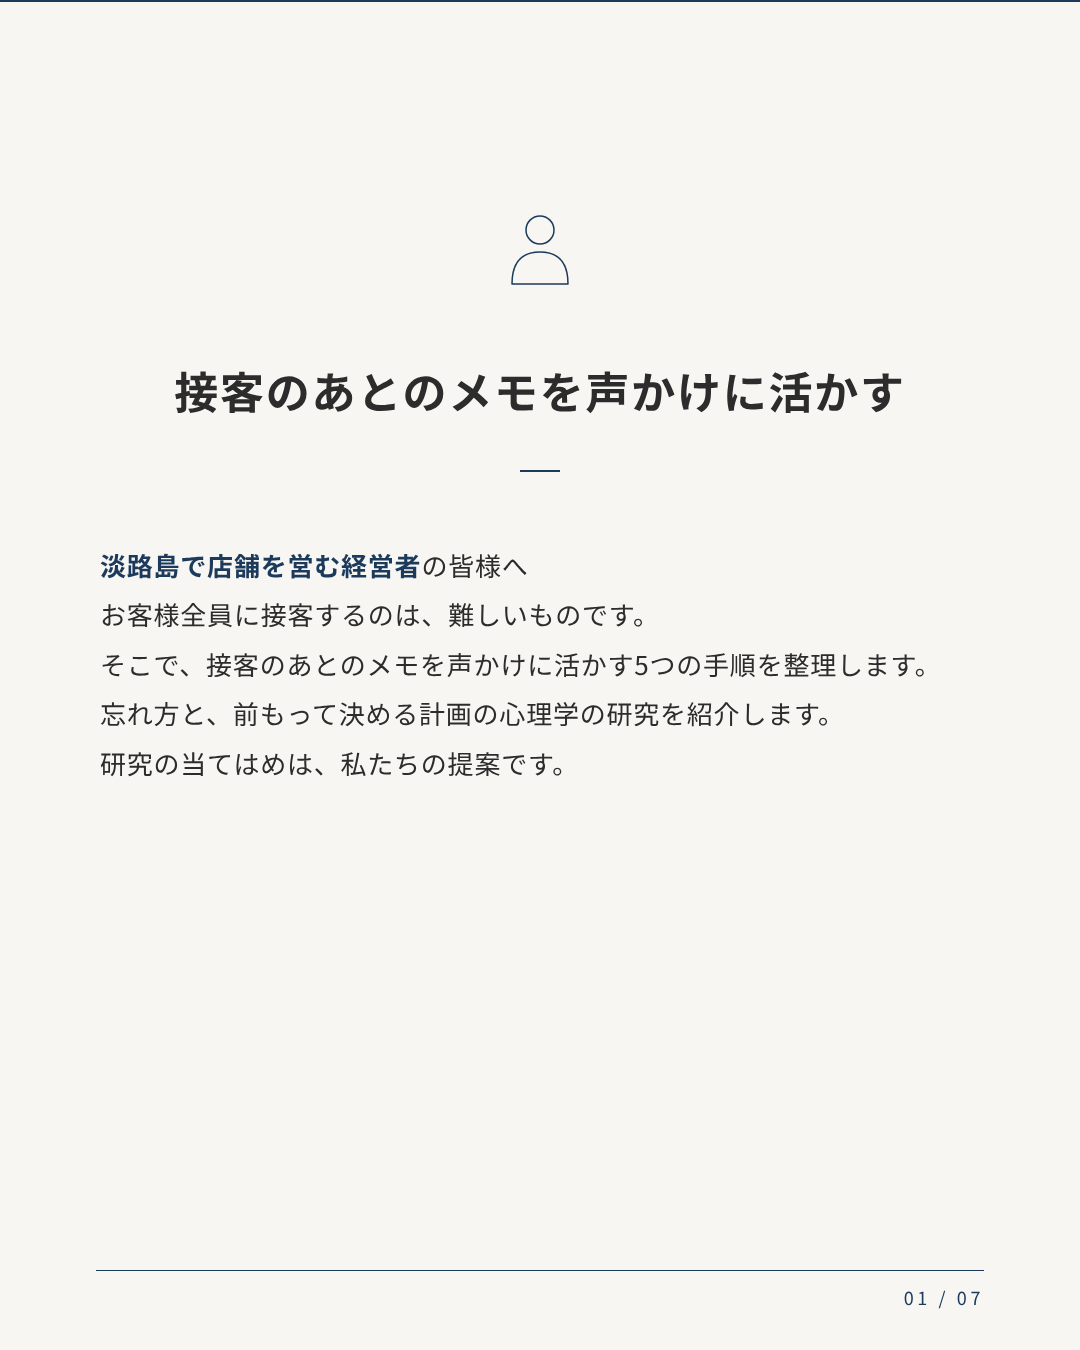
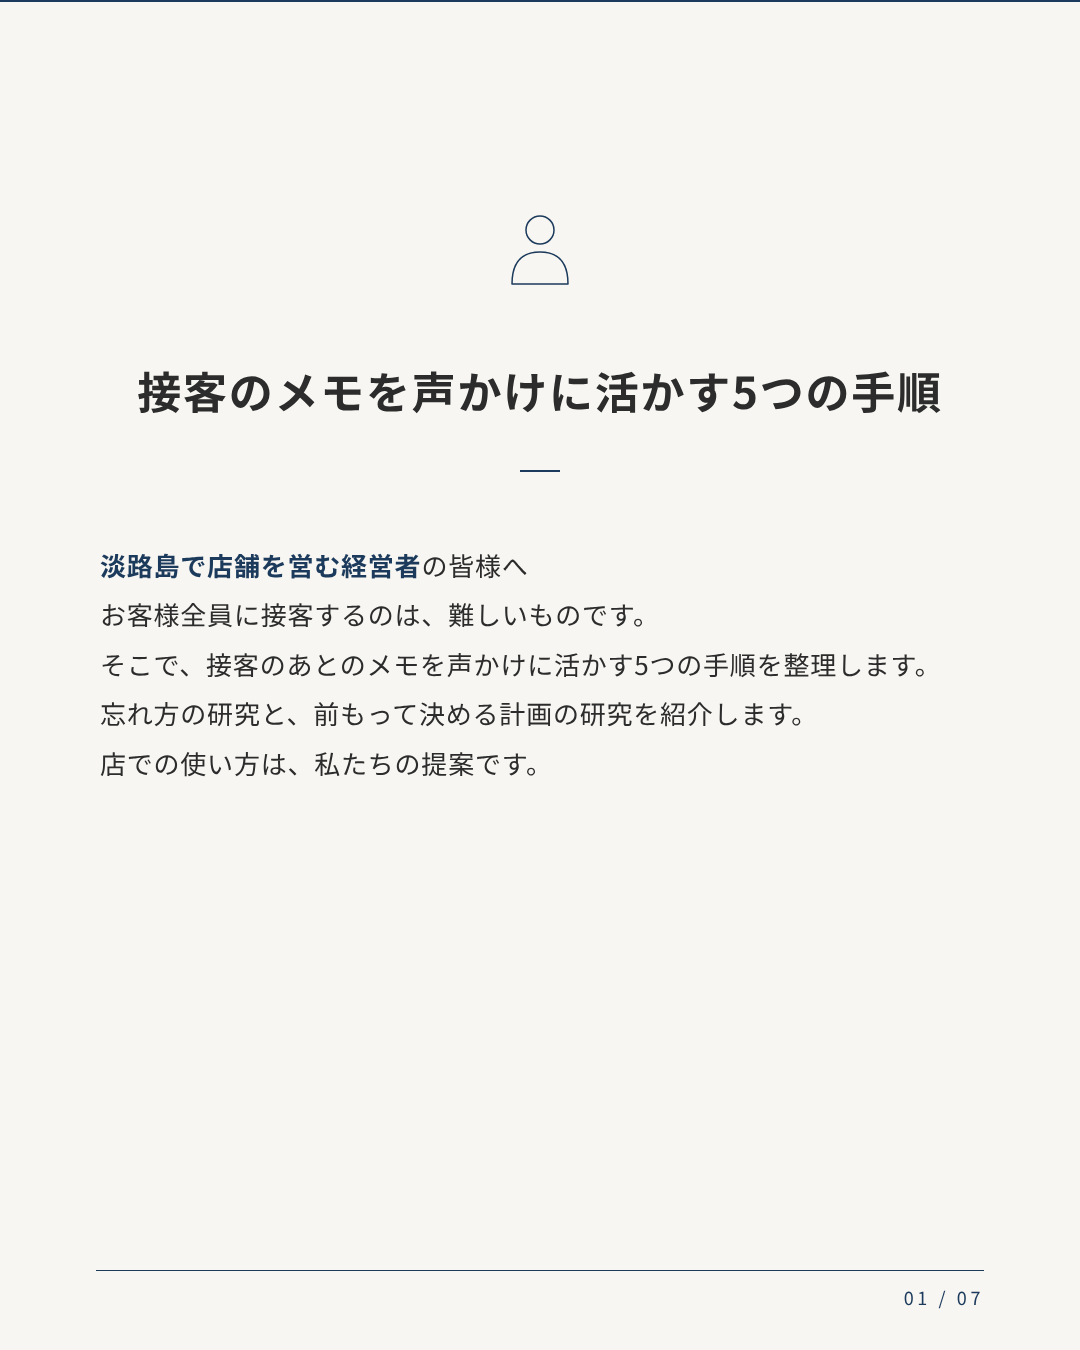
投稿の一覧を更新（11件）

Changed region(s): [[0.0917, 0.4978, 0.7028, 0.5911], [0.1222, 0.2489, 0.8861, 0.3111]]

diff --git a/index.html b/index.html
@@ -34,13 +34,13 @@ pre { white-space: pre-wrap; font: inherit; line-height: 1.7; }
 <details><summary>キャプションを見る</summary><pre>淡路島で店舗を営む方へ。
 お客様全員に接客するのは、難しいものです。そこで、接客のあとのメモを声かけに活かす5つの手順を整理しました。
 
-1. 気になった1組を最後まで見る：全員は難しいので、1組に絞ることを提案します。見る点は、聞かれたこと・見た商品・触れたもの・買おうとしたものです。
+1. 気になった1組を入店から退店まで見る：全員は難しいので、1組に絞ります。見る点は、質問されたこと・見ていた商品・触れたもの・買おうとしたものです。
 2. 接客が終わってすぐメモする：エビングハウスの結果を参考に、その4点を接客後すぐに書きます。
-3. 似た事例を集めて傾向を見る：どうなったか、そしてなぜかを書き足します。この書き足しは私たちの提案です。
-4. 声をかける条件を前もって決める：メモから条件を決めます。例は私たちの提案です。
+3. メモを見返して傾向を見る：メモがたまったら見返し、どうなったか、そしてなぜかを書き足します。
+4. 声をかける条件を前もって決める：メモの内容を手がかりに、条件を決めます。例は私たちの提案です。
 5. 接客につなげやすい方から始める：接客につなげにくい方には、売り場づくりやPOPで会話のきっかけを作る方法があります。
 
-接客後すぐのメモには心理学者エビングハウスの忘れ方の研究（音の並びを覚えた1人の結果）、声をかける条件には心理学者ゴルヴィツァーが多くの研究をまとめた、前もって決める計画（実行意図）を紹介しています。どちらも接客を調べた研究ではなく、接客への当てはめは私たちの提案です。
+接客後すぐのメモには心理学者エビングハウスの忘れ方の研究（音の並びを覚えた1人の結果）、声をかける条件には心理学者ゴルヴィツァーが研究をまとめた、前もって決める計画（実行意図）を紹介しています。どちらも接客を調べた研究ではなく、店での使い方は私たちの提案です。
 
 今日の一歩は、接客が終わってすぐ、メモを書くことです。
 保存して見返してください。メモの書き方や声をかける条件に迷ったら、DMでご相談ください。
